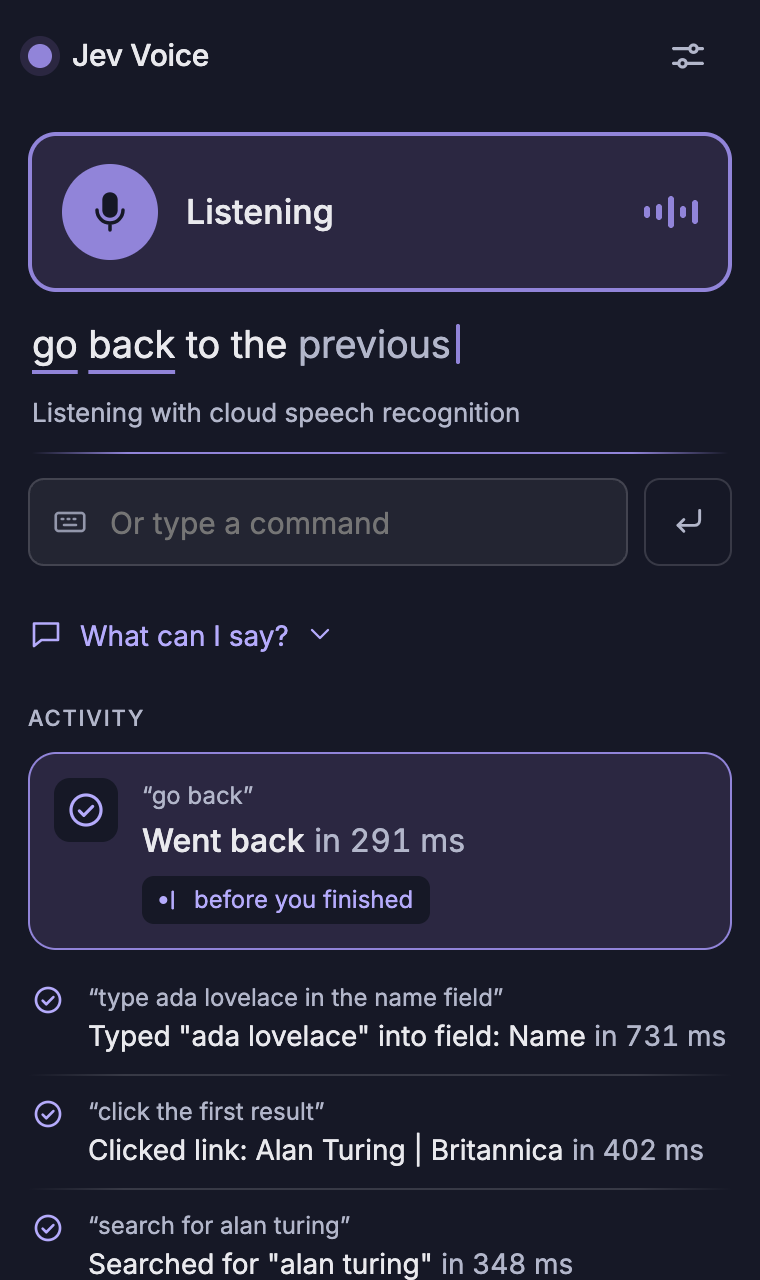
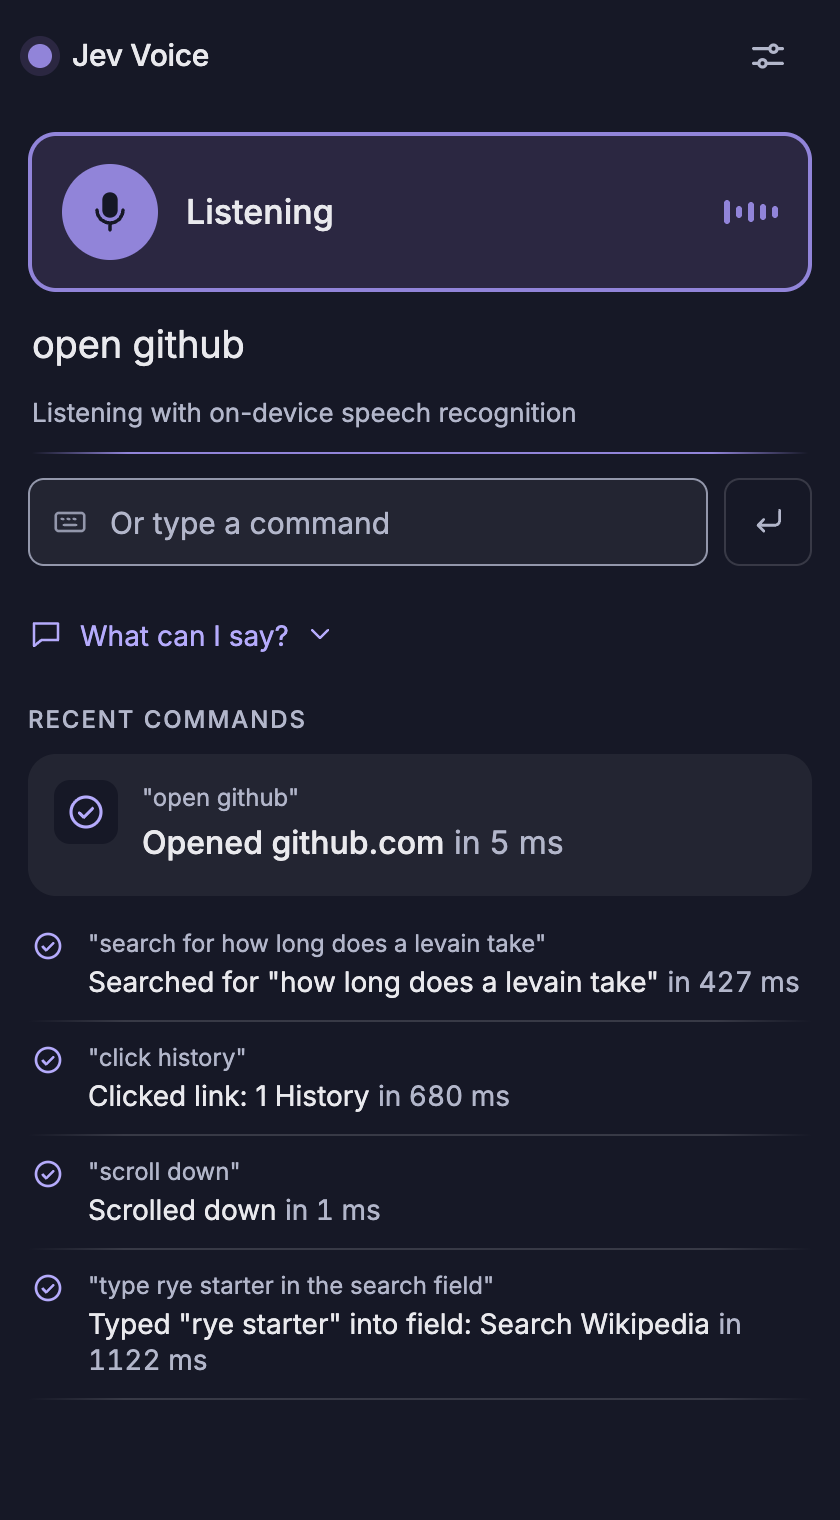
docs(screenshots): retake the README shots on real pages

diff --git a/README.md b/README.md
@@ -7,7 +7,7 @@ Jev Voice is a voice control extension for Chrome. You open sites, search, click
 
 <picture>
   <source media="(prefers-color-scheme: dark)" srcset="docs/screenshot-dark.png" />
-  <img src="docs/screenshot-light.png" width="360" alt="Jev Voice side panel while listening. The words go back are underlined because the extension went back before the sentence finished; below, recent commands: typing a name into a form field, a click and a search." />
+  <img src="docs/screenshot-light.png" width="420" alt="Jev Voice side panel while listening, with open github as the last thing heard. Below, recent commands with their timings: Opened github.com, a Google search, a click on a Wikipedia contents link, a scroll and typing rye starter into the Wikipedia search field." />
 </picture>
 
 ## What it does
@@ -36,7 +36,7 @@ Brave has the speech API but no backend behind it, so use Chrome. Typed commands
 
 <picture>
   <source media="(prefers-color-scheme: dark)" srcset="docs/options-dark.png" />
-  <img src="docs/options-light.png" width="520" alt="Jev Voice settings with no key yet. Two provider tiles, Vercel AI Gateway and TypeSafe, sit above numbered steps for the selected one, and below them a masked key input next to its Connect button." />
+  <img src="docs/options-light.png" width="520" alt="Jev Voice settings once a key is connected: Connected via Vercel AI Gateway with the masked key, Test, Replace and Remove buttons, and a line saying the key stays in this browser." />
 </picture>
 
 ## Talking to it

diff --git a/docs/store-listing.md b/docs/store-listing.md
@@ -65,7 +65,7 @@ Category: Accessibility. Language: English (United Kingdom), to match the Britis
 
 ### Screenshots, promo tile, marquee
 
-Not final. The existing set under `screenshots/jev-voice/store/` predates the mic label, the "Opened github.com" outcome and the new icon; it is reshot as its own task (JV-049).
+Five 1280x800 shots (with 640x400 copies), a 440x280 tile and a 1400x560 marquee are under `screenshots/jev-voice/store/` in the reports folder, retaken on 1 October 2026 against this release on a real page (the Wikipedia article on sourdough). They show the mic label, the "Opened github.com" outcome and the new icon. The README beside them has the caption for each.
 
 ### URLs
 
